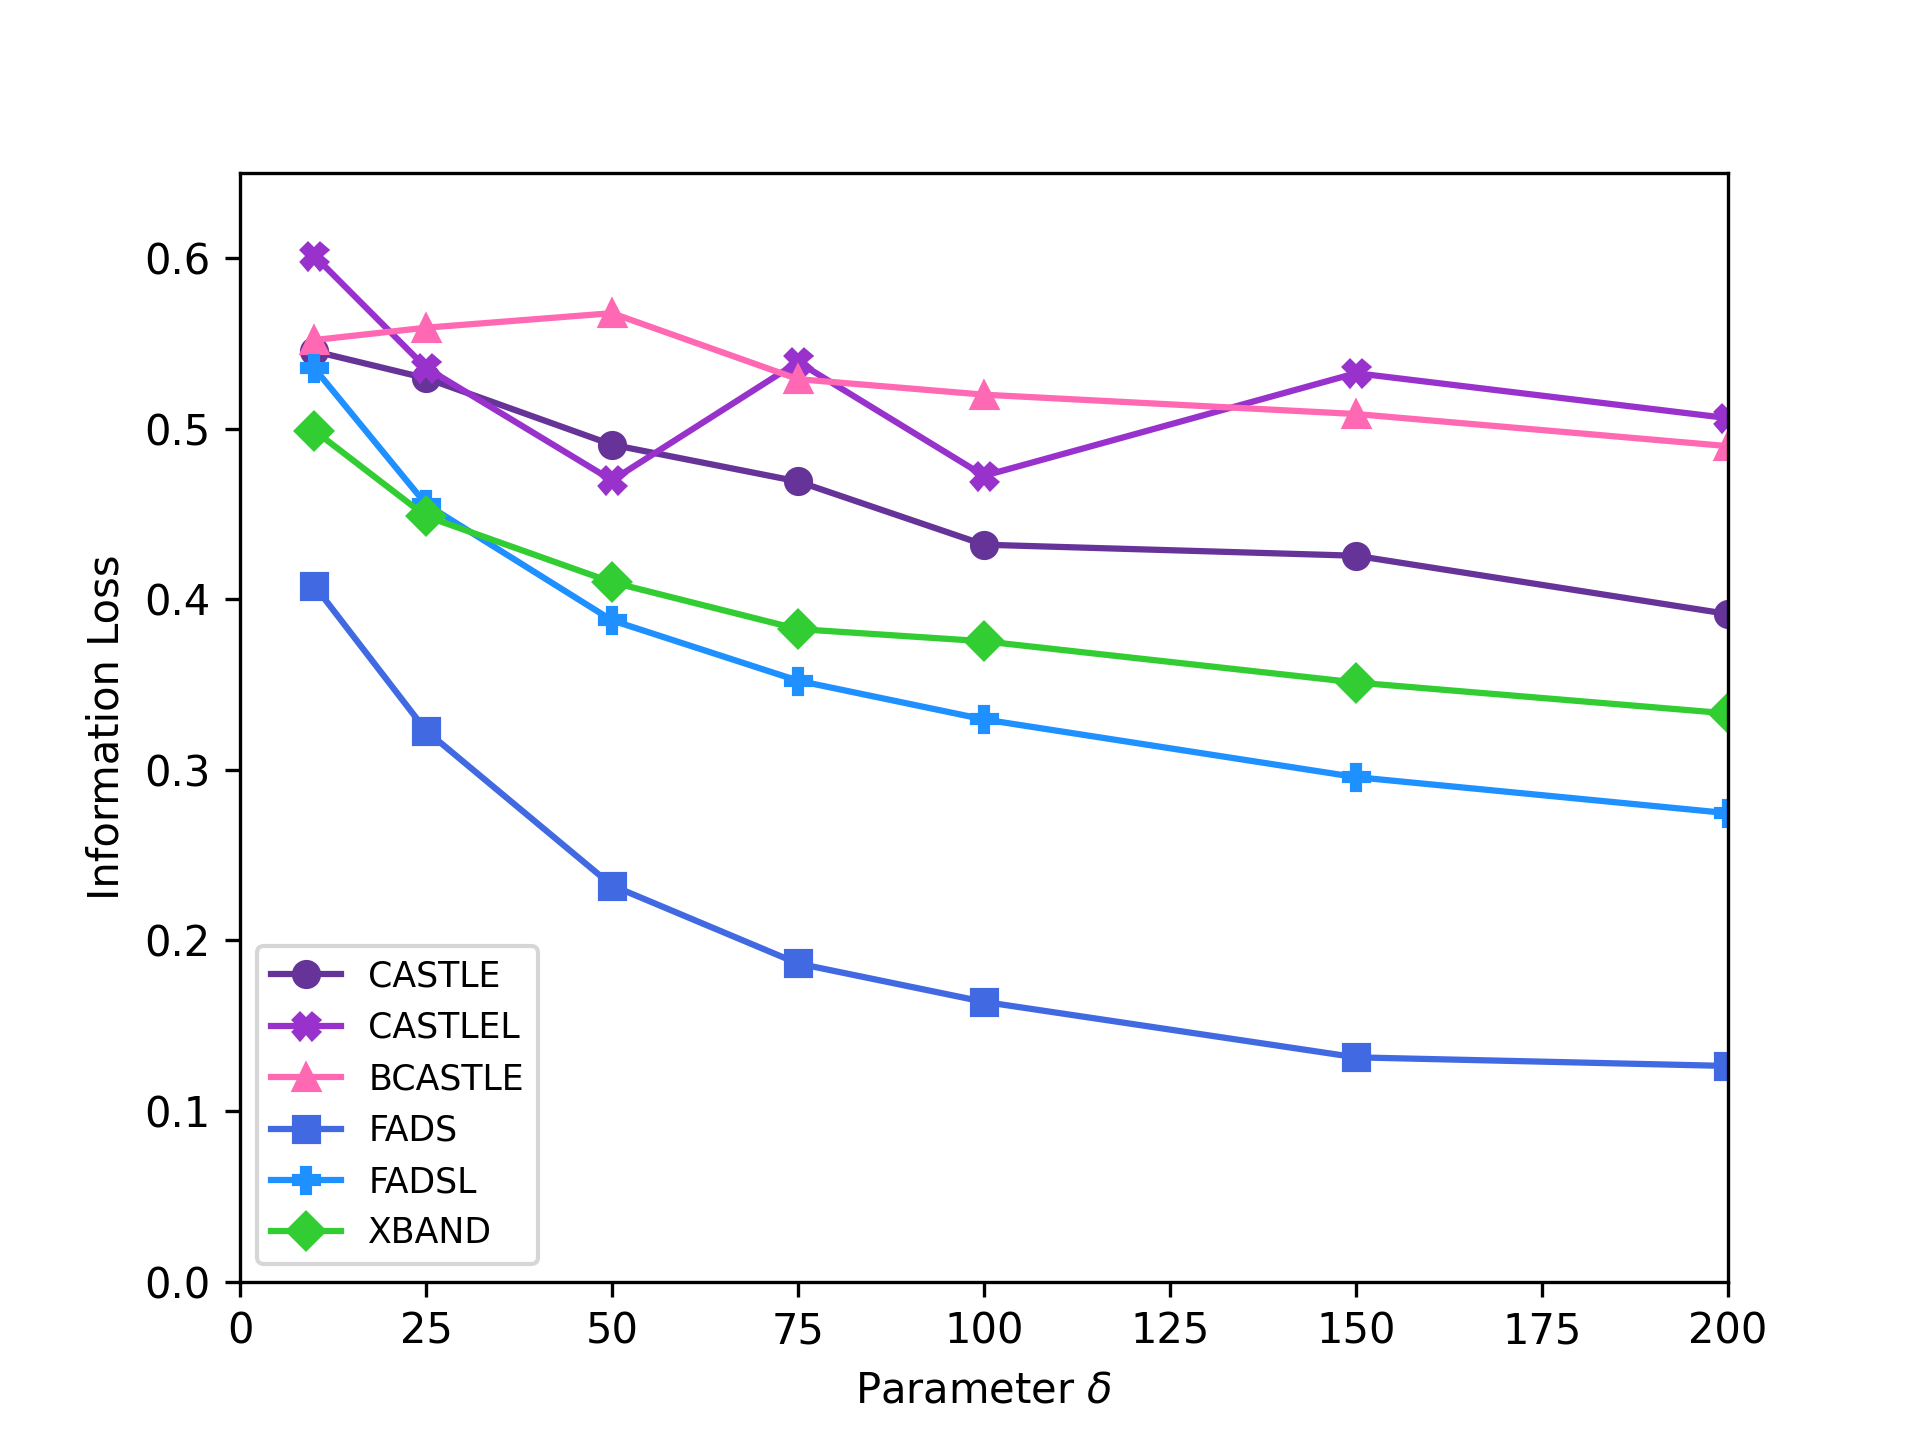
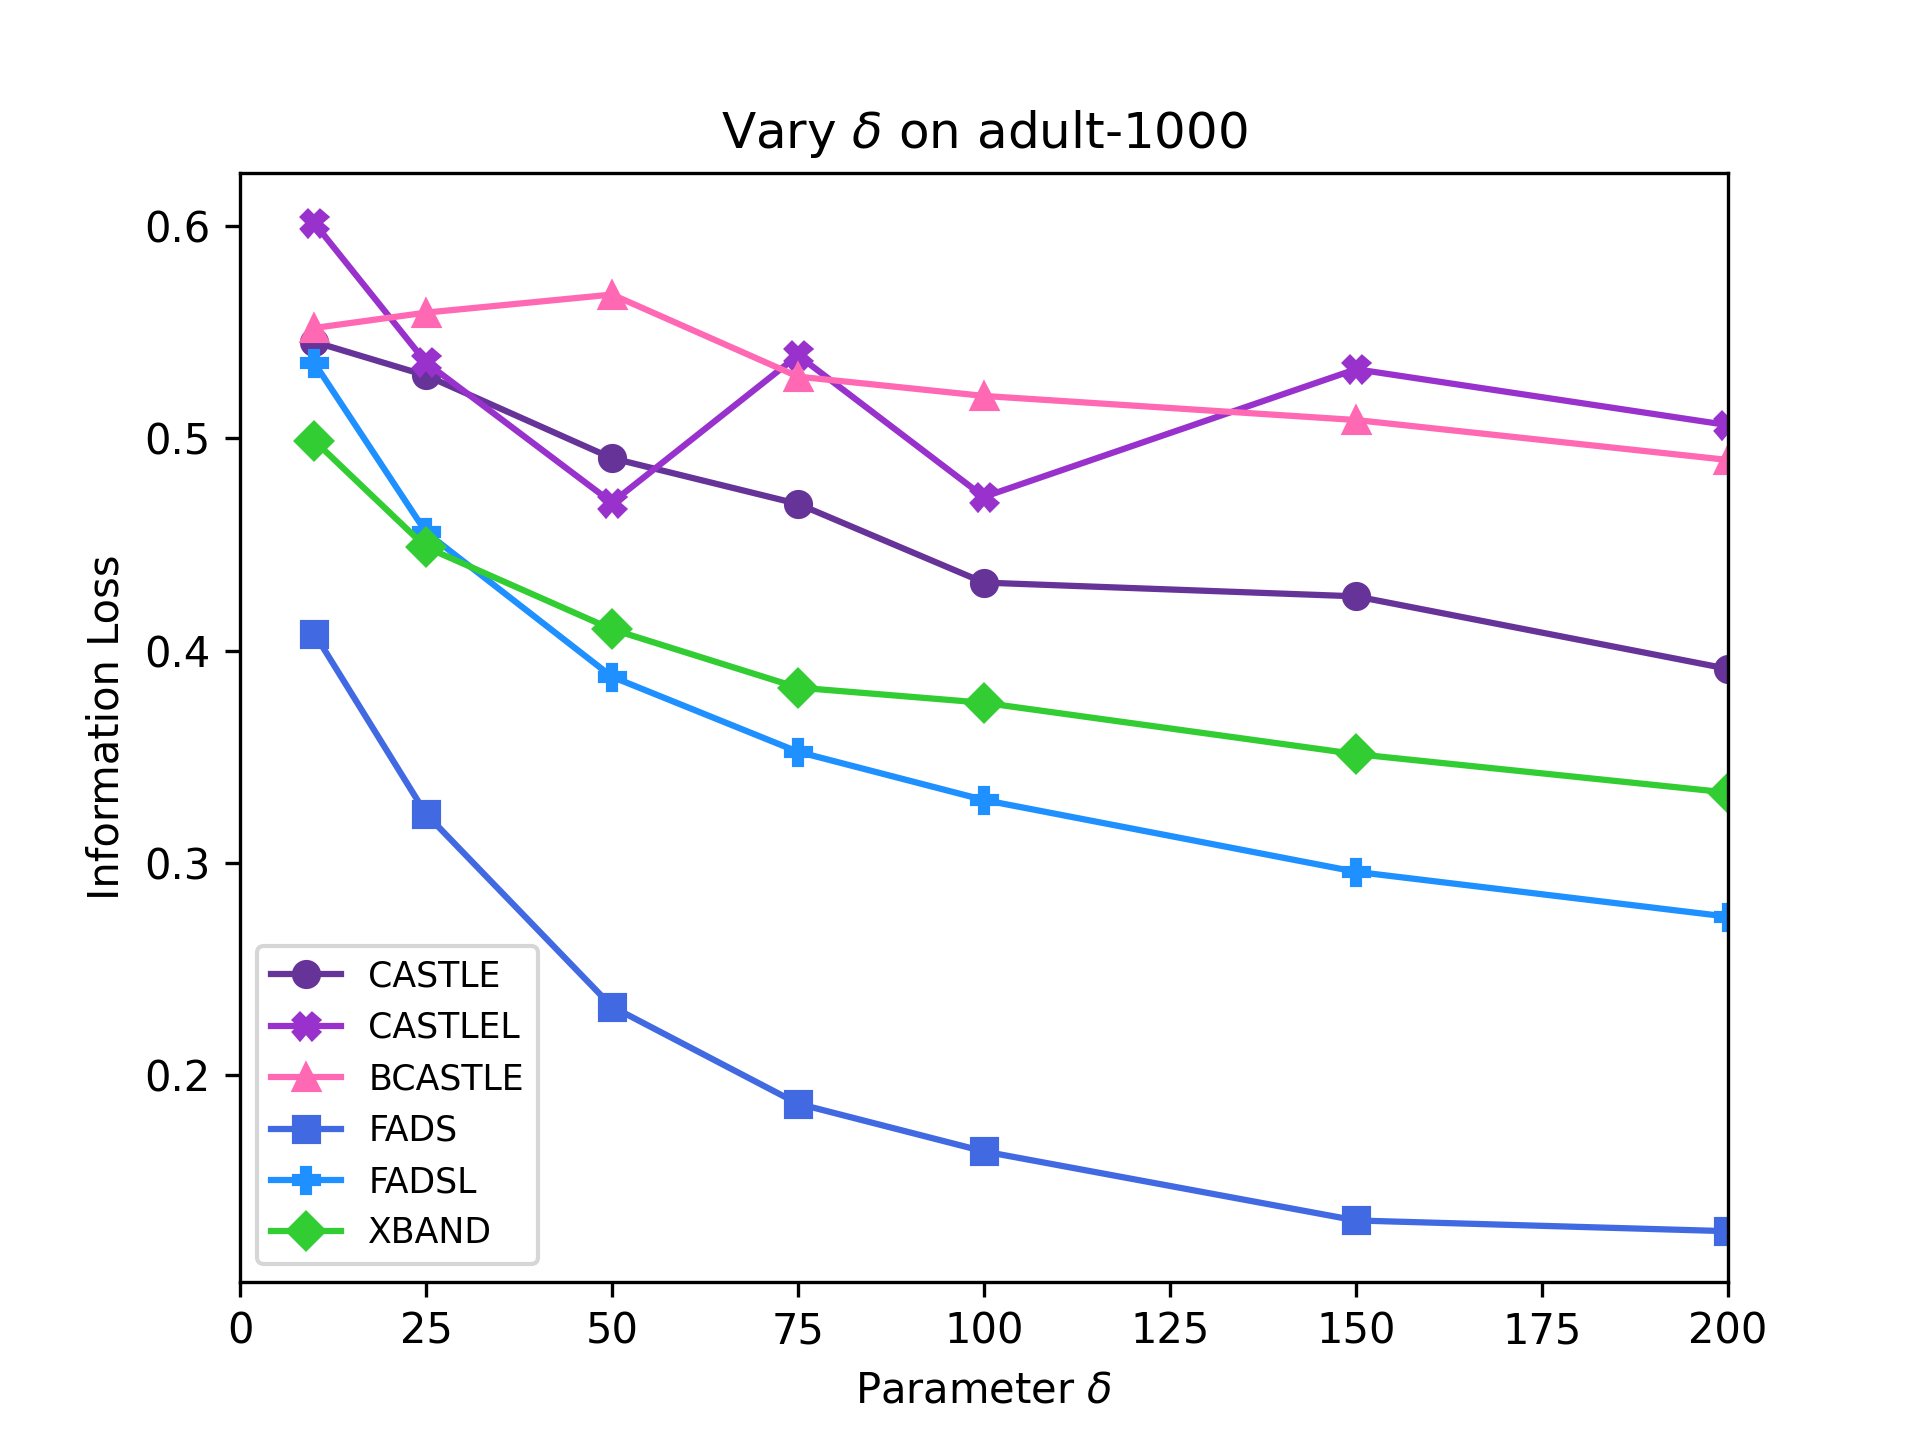
graphs output

diff --git a/app/out_data/grapher.py b/app/out_data/grapher.py
@@ -1,7 +1,7 @@
 import matplotlib.pyplot as plt
 import numpy as np
 
-name = "delta-taxi-1000"
+name = "k-adult-1000"
 
 with open(f"compare-{name}.csv") as file:
     lines = [line.split(",") for line in file.read().split("\n")]
@@ -21,10 +21,11 @@ for i in range(len(labels)):
     x_only, y_only = zip(*coords)
     plt.plot(x_only, y_only, marker=markers[i], label=labels[i].upper(), color=colours[i])
 
-plt.axis([0, 200, 0, 0.65])
-plt.xlabel("Parameter $\delta$")
+# plt.axis([0, 200, 0, 0.65])
+plt.xlim(0, 200)
+plt.title("Vary $k$ with $\delta=2k$ on adult-1000")
+plt.xlabel("Parameter $k$")
 plt.ylabel("Information Loss")
 plt.legend(fontsize='small')
 
-print(plt.rcdefaults)
 plt.savefig(f"{name}.png", dpi=300)
